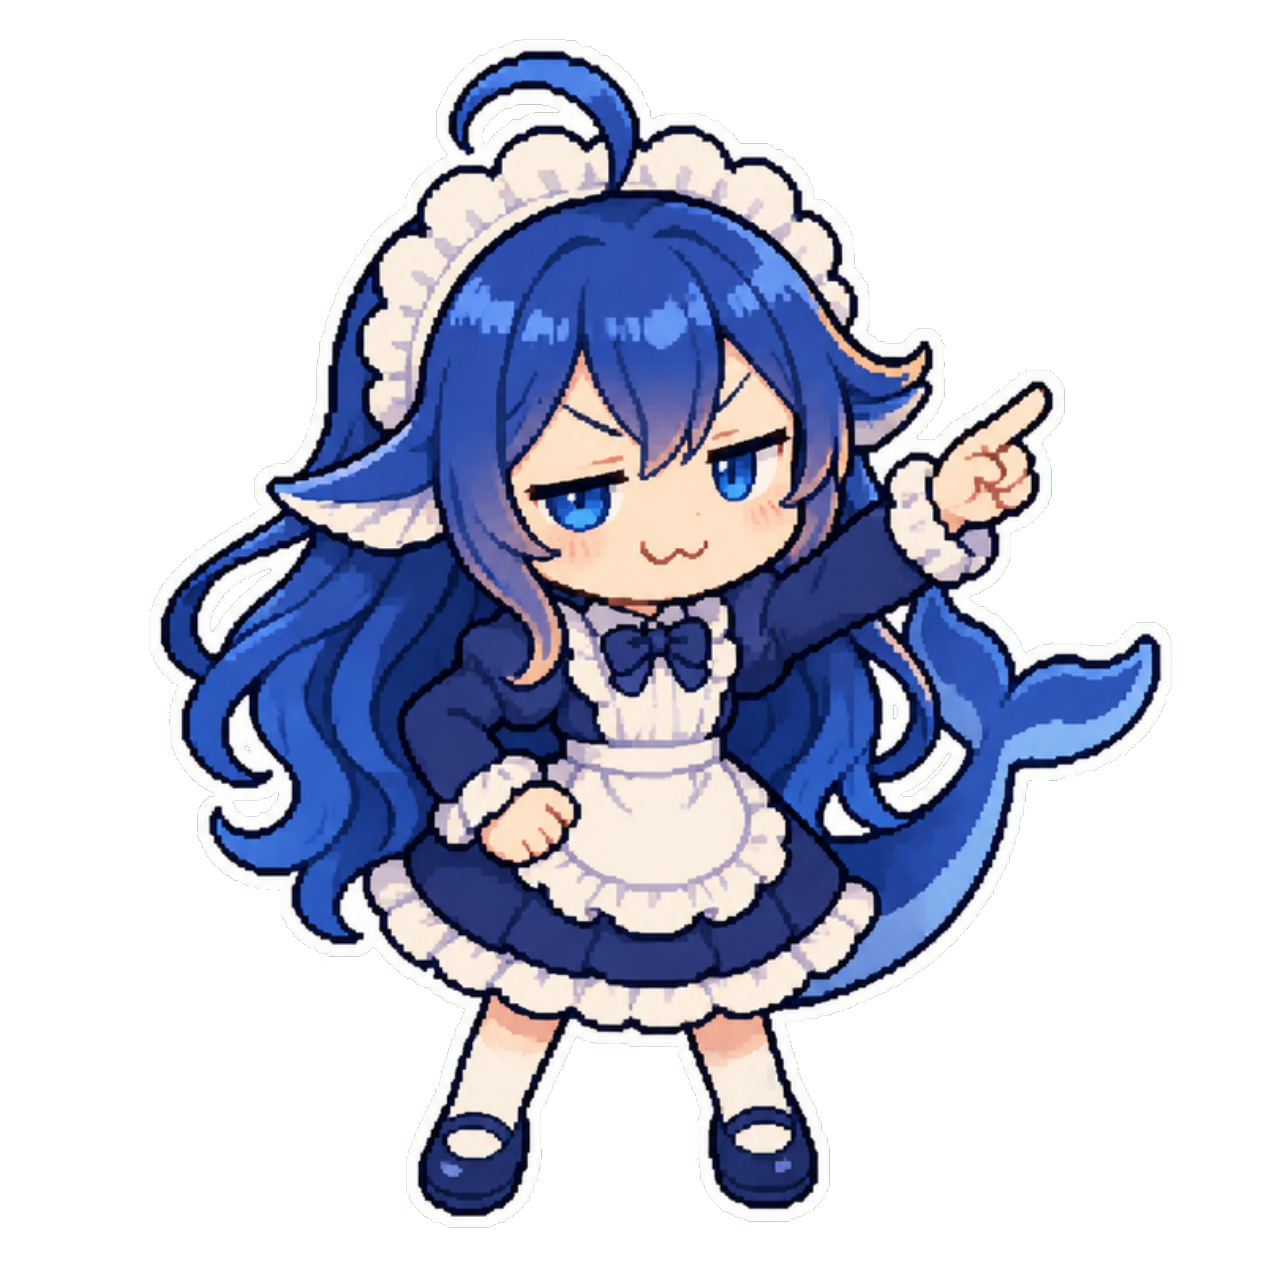
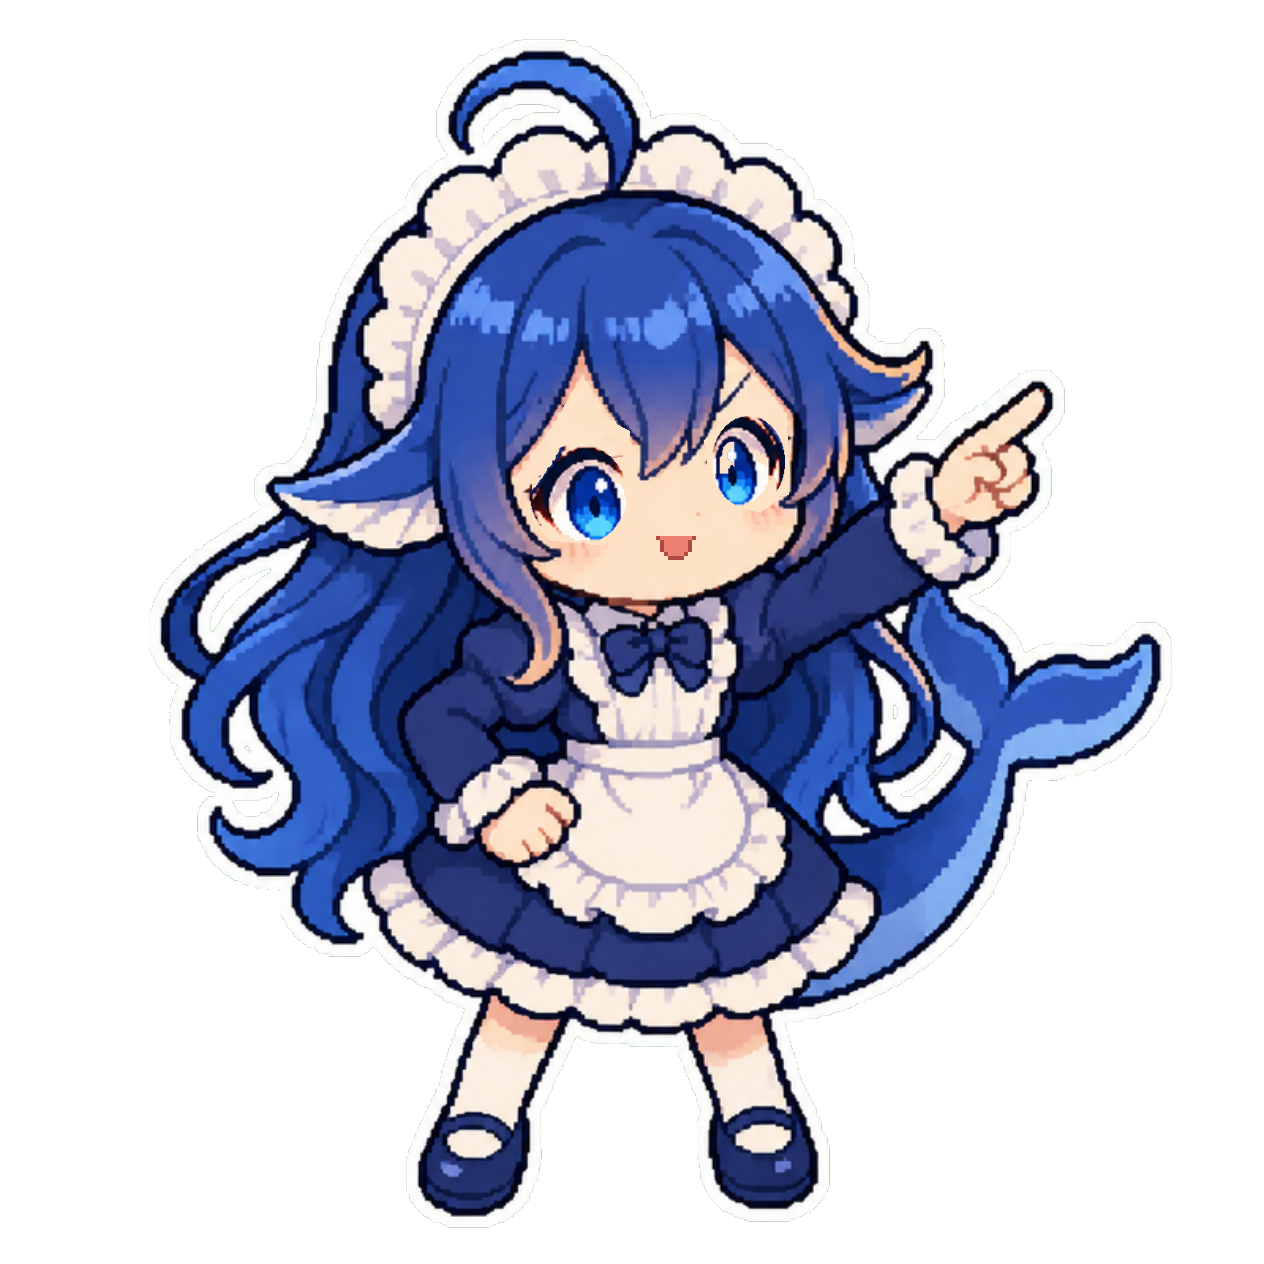
Redraw the pointing-right whale girl's face to the character baseline
Pose 09 had half-closed eyes, angled lids and a smug cat mouth. Its face now
has the open eyes of pose 08 and a small soft smile with no teeth; the body,
hand and transparent outline are unchanged. The guide images that use the
pose are recomposed.

Changed region(s): [[0.4011, 0.3085, 0.4937, 0.432], [0.5554, 0.3085, 0.6479, 0.4011], [0.4937, 0.4011, 0.5554, 0.4628]]

diff --git a/images/whale-girl/README.md b/images/whale-girl/README.md
@@ -35,5 +35,5 @@ Vier Posen begleiten die Schritt-für-Schritt-Bildschirmfotos auf der Projektsei
 | --- | --- | --- | --- |
 | <a href="07-guide-sign.png"><img src="07-guide-sign.png" width="120" alt="举牌 / Holding a sign / Schild halten"></a> | 每组引导的起始步和对话框步骤 | First step of each guide and dialog steps | Erster Schritt jeder Anleitung und Dialogschritte |
 | <a href="08-guide-point-left.png"><img src="08-guide-point-left.png" width="120" alt="指左 / Pointing left / Nach links zeigen"></a> | 标注在左侧的步骤 | Steps whose callouts are on the left | Schritte mit Markierungen links |
-| <a href="09-guide-point-right.png"><img src="09-guide-point-right.png" width="120" alt="指右 / Pointing right / Nach rechts zeigen"></a> | 标注在右侧的步骤 | Steps whose callouts are on the right | Schritte mit Markierungen rechts |
+| <a href="09-guide-point-right.png"><img src="09-guide-point-right.png" width="120" alt="指右 / Pointing right / Nach rechts zeigen"></a> | 标注在右侧的步骤；2026-11-13 按形象基线重画脸部 | Steps whose callouts are on the right; face redrawn to the character baseline on 2026-11-13 | Schritte mit Markierungen rechts; Gesicht am 13.11.2026 nach der Charaktervorgabe neu gezeichnet |
 | <a href="10-guide-thumbs-up.png"><img src="10-guide-thumbs-up.png" width="120" alt="点赞 / Thumbs up / Daumen hoch"></a> | 每组引导的最后一步 | Last step of a guide | Letzter Schritt einer Anleitung |
